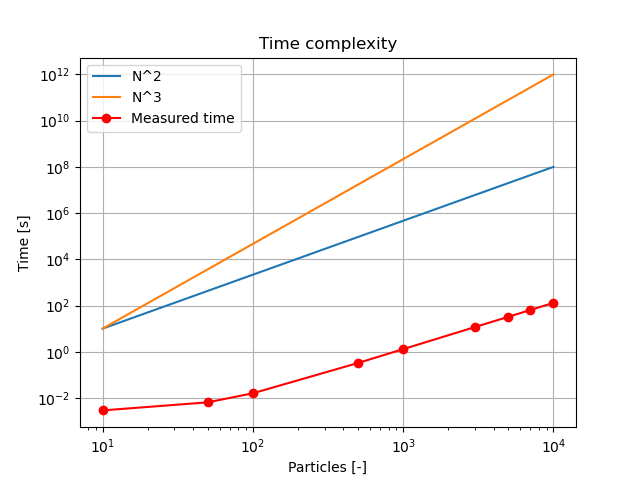
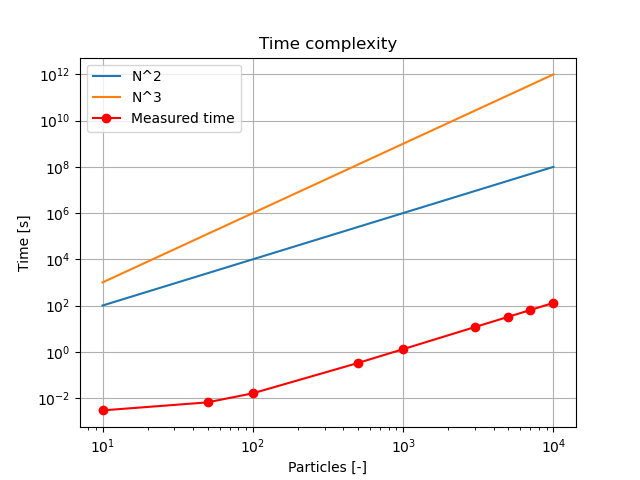
A3, plotted more3

diff --git a/A3/plotting.py b/A3/plotting.py
@@ -1,8 +1,8 @@
 import matplotlib.pyplot as plt
 import math
 N = [10, 50, 100, 500, 1000, 3000, 5000, 7000, 10000]
-N_2 = [10, 10000**2]
-N_3 = [10, 10**12]
+N_2 = [100, 10000**2]
+N_3 = [1000, 10**12]
 time = [0.002901, 0.006463, 0.015964, 0.325657, 1.295745, 11.684230, 32.431196, 63.577339, 130.429485]
 
 
